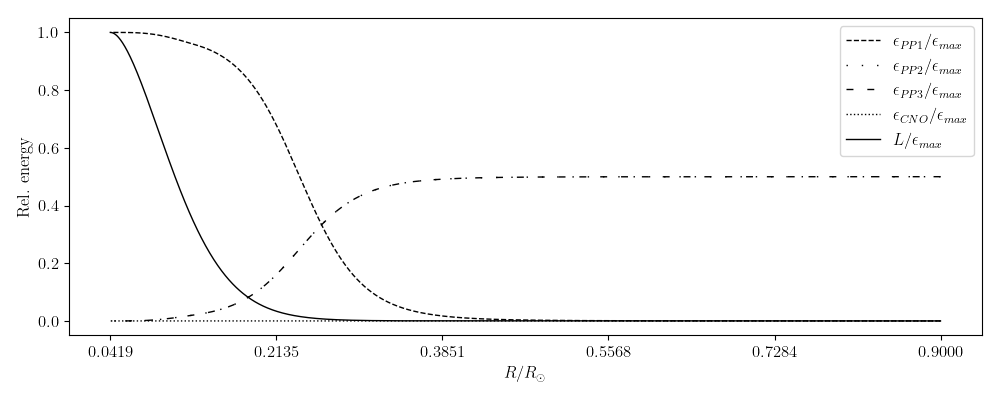
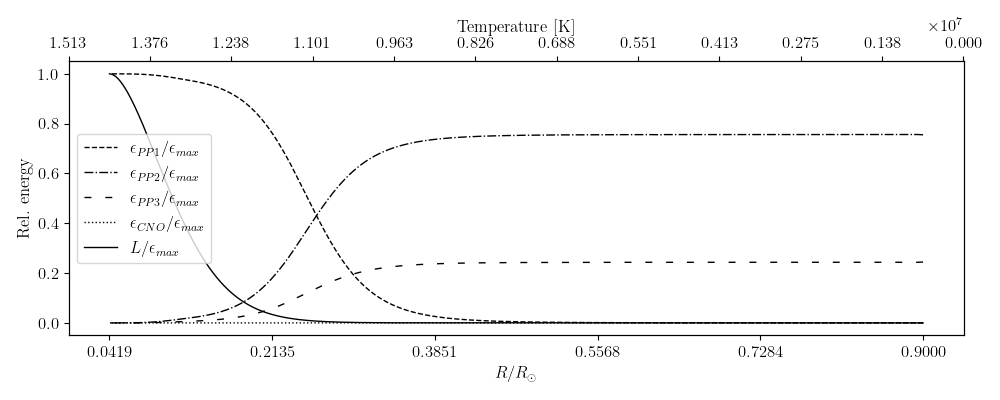
Returned wrong in EnergyProduction and fixed extra axis in eps plot

diff --git a/energy-transport/star_model.py b/energy-transport/star_model.py
@@ -108,12 +108,16 @@ fig.savefig('figures/flux-fraction.png')
 
 fig, ax = plt.subplots(figsize=(10, 4))
 ax.plot(r_plot[(eps_max != 0)], np.flip(PP1/eps_max)[(eps_max != 0)], ls='dashed', color='black', label=r'$\epsilon_{PP1}/\epsilon_{max}$')
-ax.plot(r_plot[(eps_max != 0)], np.flip(PP2/eps_max)[(eps_max != 0)], ls=(0, (1, 10)), color='black', label=r'$\epsilon_{PP2}/\epsilon_{max}$')
+ax.plot(r_plot[(eps_max != 0)], np.flip(PP2/eps_max)[(eps_max != 0)], ls='dashdot', color='black', label=r'$\epsilon_{PP2}/\epsilon_{max}$')
 ax.plot(r_plot[(eps_max != 0)], np.flip(PP3/eps_max)[(eps_max != 0)], ls=(0, (5, 10)), color='black', label=r'$\epsilon_{PP3}/\epsilon_{max}$')
 ax.plot(r_plot[(eps_max != 0)], np.flip(CNO/eps_max)[(eps_max != 0)], ls='dotted', color='black', label=r'$\epsilon_{CNO}/\epsilon_{max}$')
 ax.plot(r_plot[(eps_max != 0)], (eps/np.max(eps))[(eps_max != 0)], ls='solid', color='black', label=r'$L/\epsilon_{max}$')
 ax.legend()
 ax.set_xticks(ticks)
+ax2 = ax.twiny()
+ax2.set_xticks(np.linspace(T[0], T[-1], 12))
+ax2.invert_xaxis()
+ax2.set_xlabel('Temperature [K]')
 ax.set_xlabel(r'$R/R_\odot$')
 ax.set_ylabel(r'Rel. energy')
 fig.tight_layout()

diff --git a/energy-transport/energy_transport.py b/energy-transport/energy_transport.py
@@ -337,7 +337,7 @@ class Star:
 		if include_cycles:
 
 			PP1 = np.array(self.PP1); PP2 = np.array(self.PP2)
-			PP3 = np.array(self.PP2); CNO = np.array(self.CNO)
+			PP3 = np.array(self.PP3); CNO = np.array(self.CNO)
 
 			return m, r, P, L, T, rho, star, stable, F_rad, F_con, eps, PP1, PP2, PP3, CNO
 
